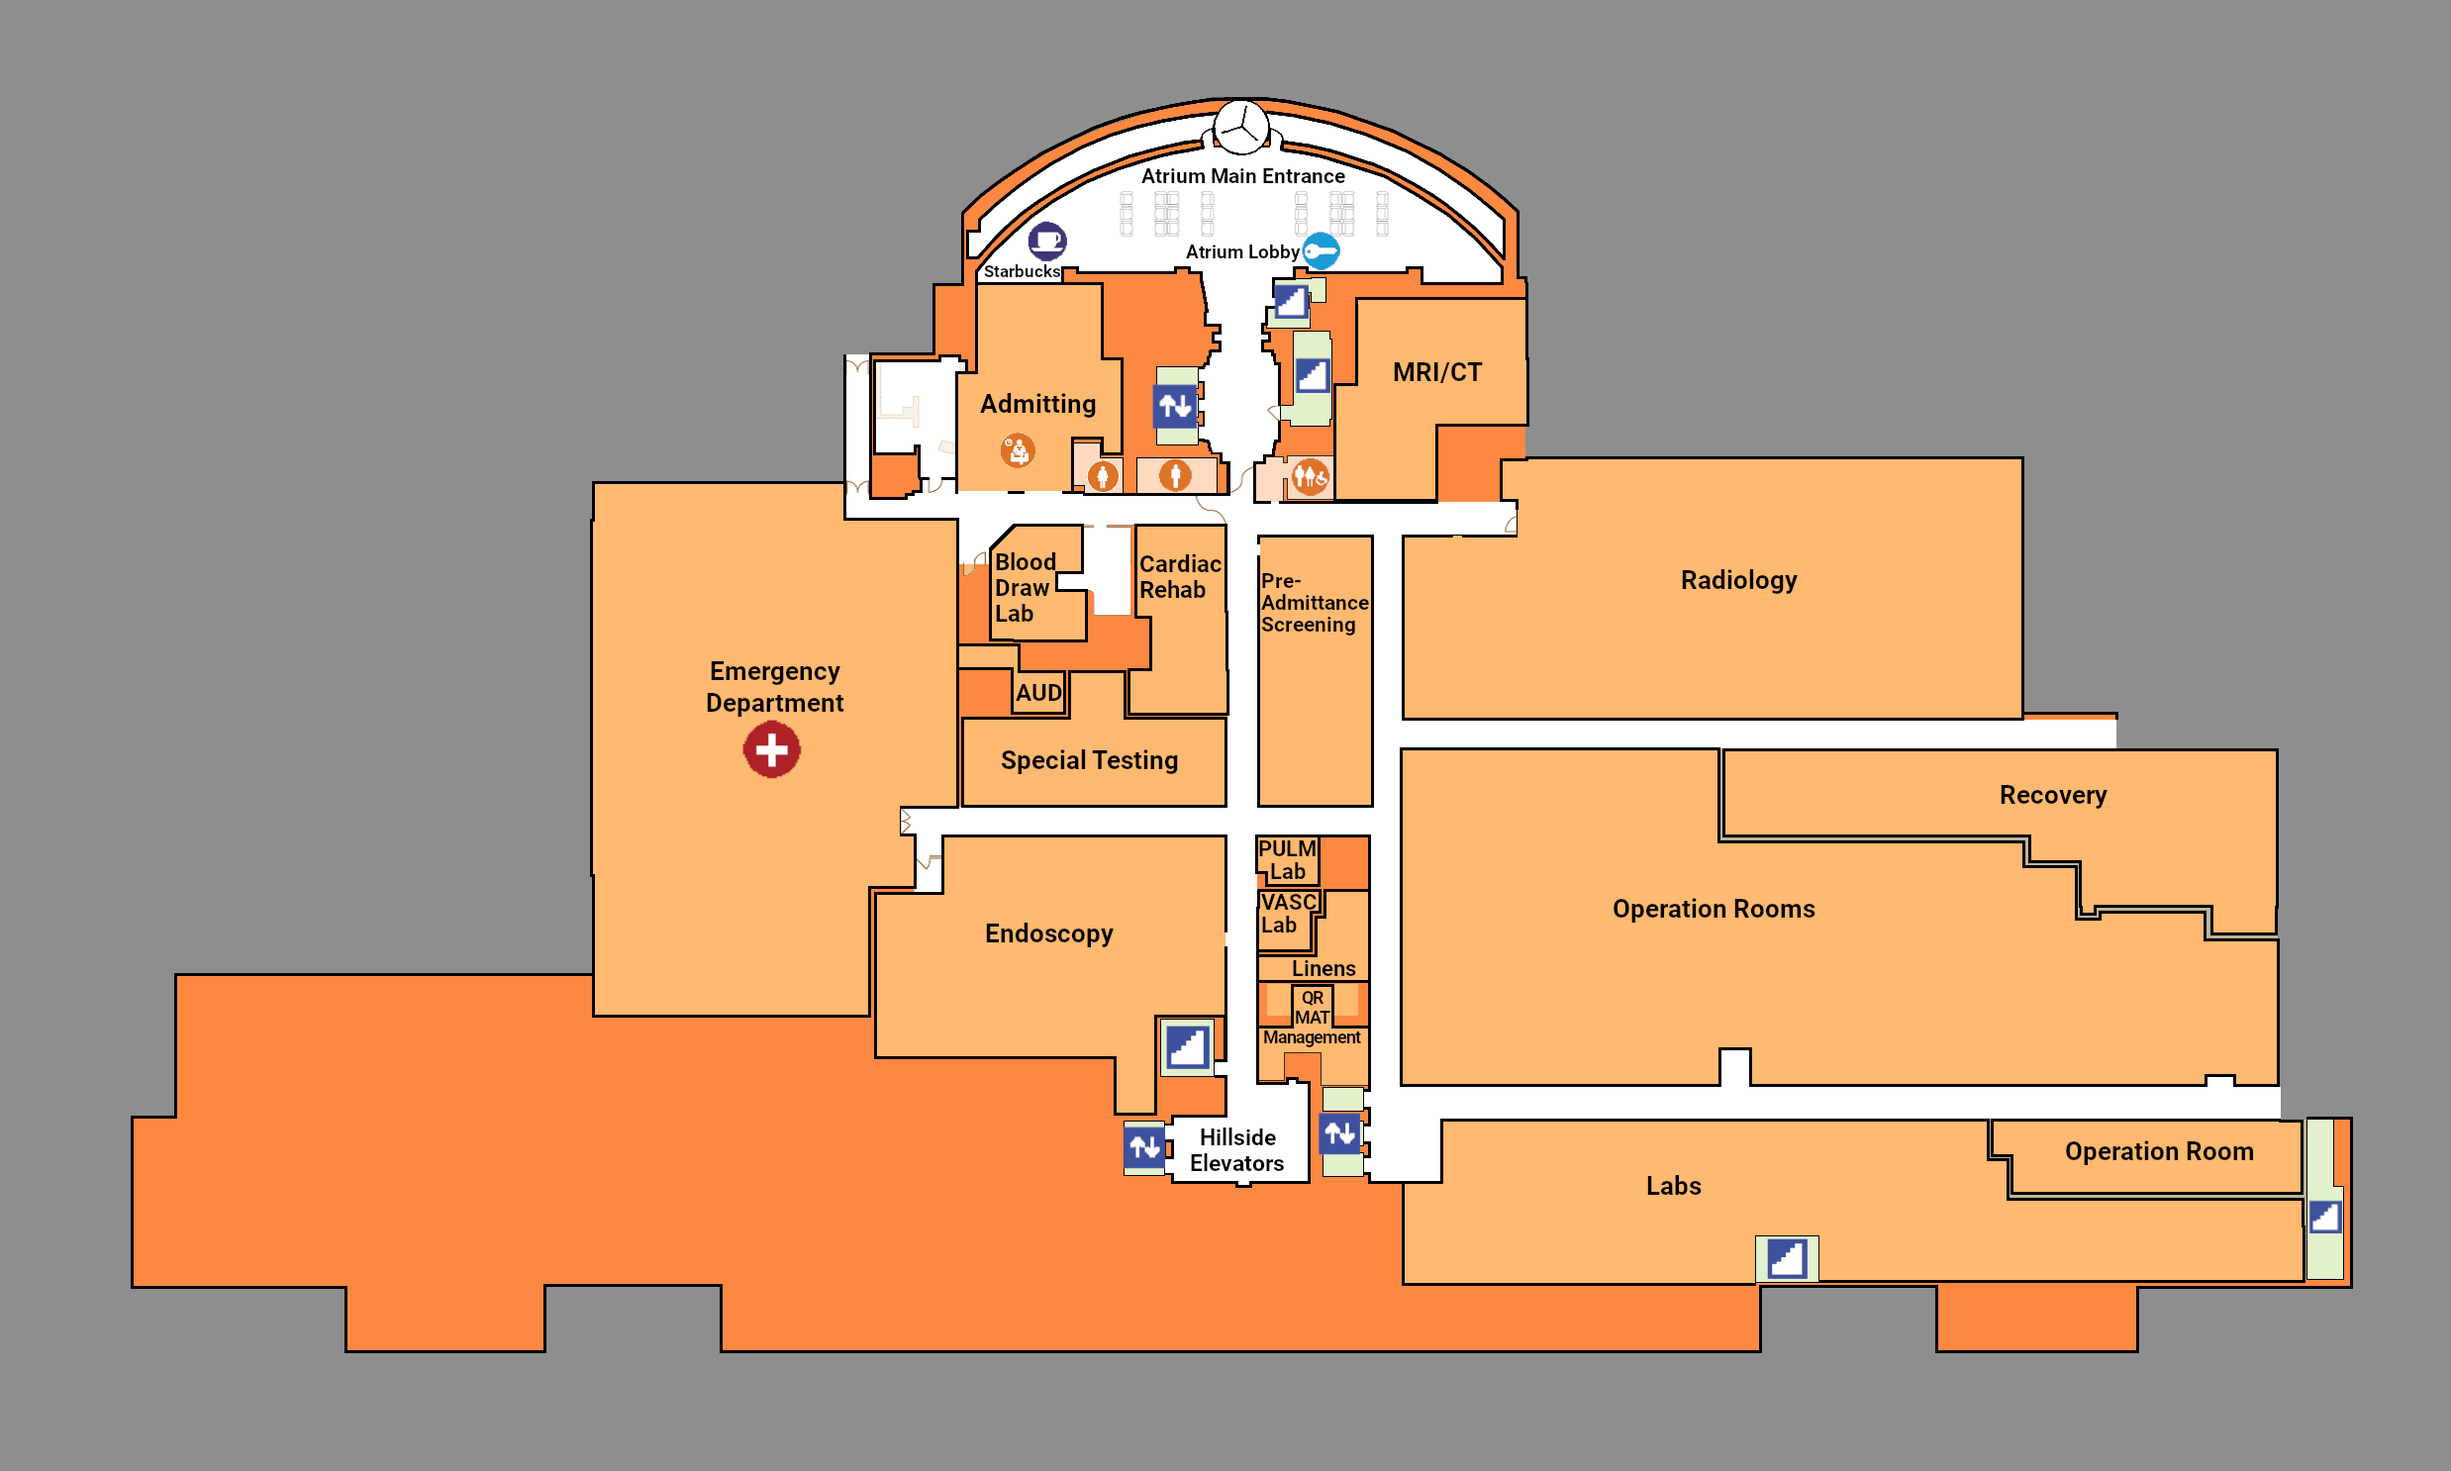
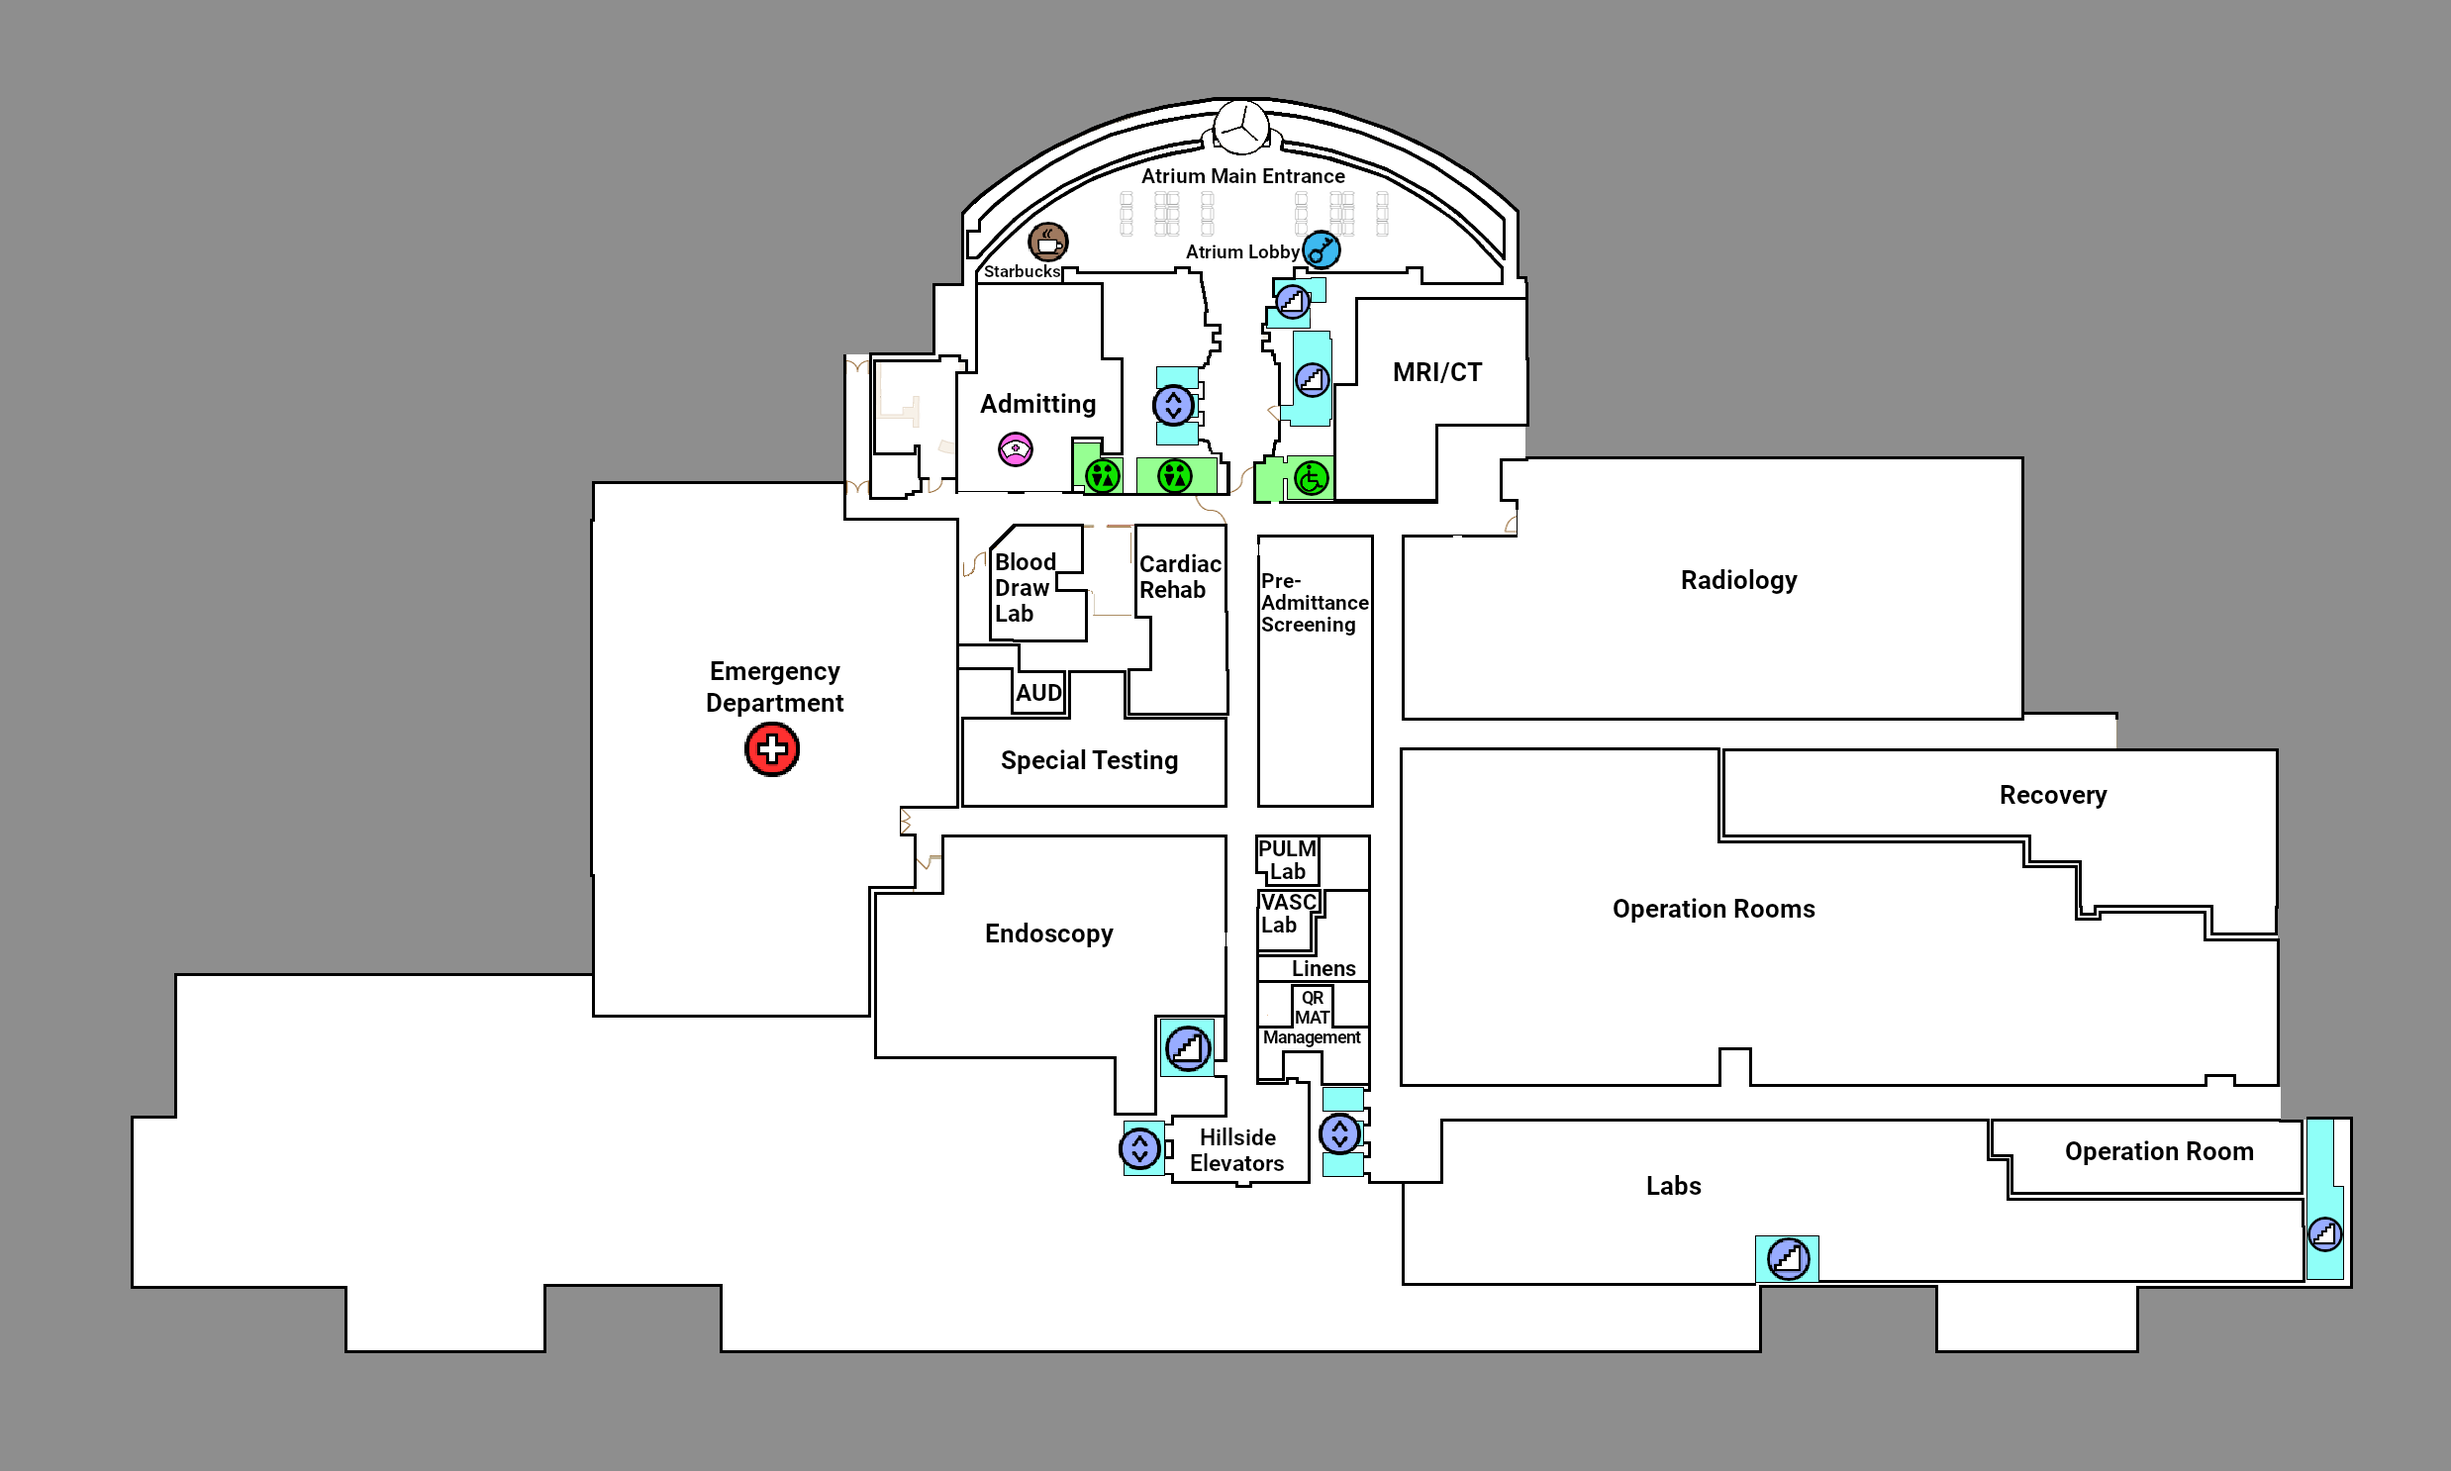
Transparent maps

diff --git a/src/main/java/edu/wpi/cs3733/d20/teamO/view_model/NodeMapView.java b/src/main/java/edu/wpi/cs3733/d20/teamO/view_model/NodeMapView.java
@@ -126,7 +126,7 @@ public class NodeMapView extends ViewModelBase {
     edgeGroup.setPickOnBounds(false);
     textLayer.setPickOnBounds(false);
 
-    backgroundImage.setImage(new Image("floors/Transparency_Test.png"));
+    backgroundImage.setImage(new Image("floors/Faulkner_1.png"));
     setBackgroundColor("#fd8842");
 
     // Set up event for a scroll event
